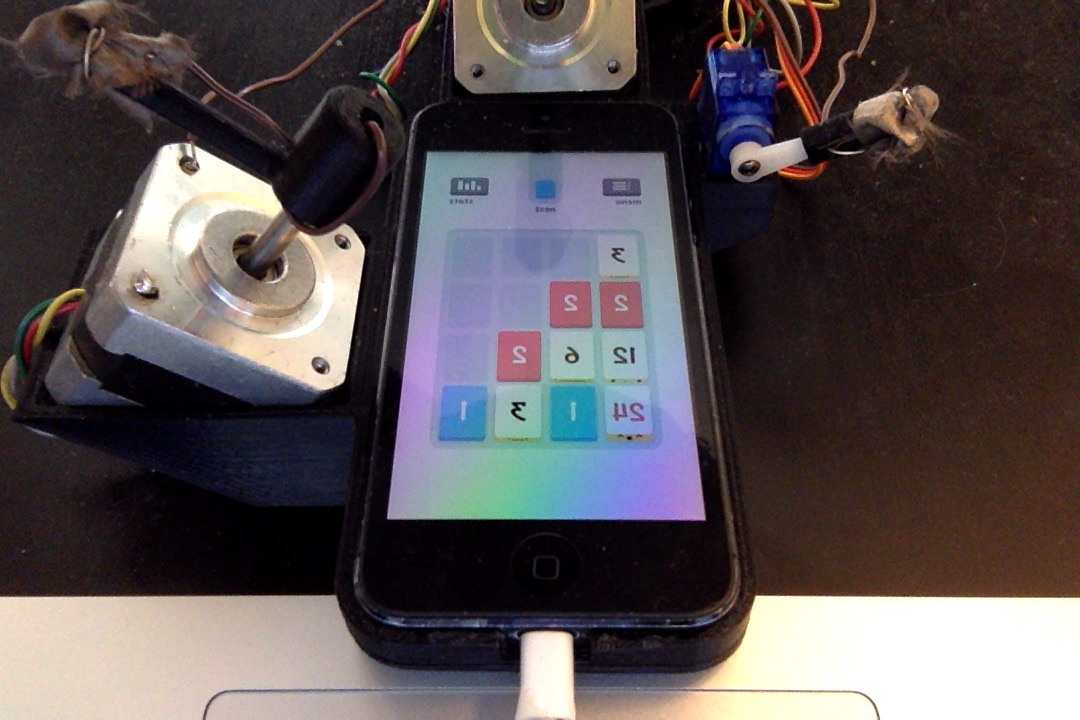
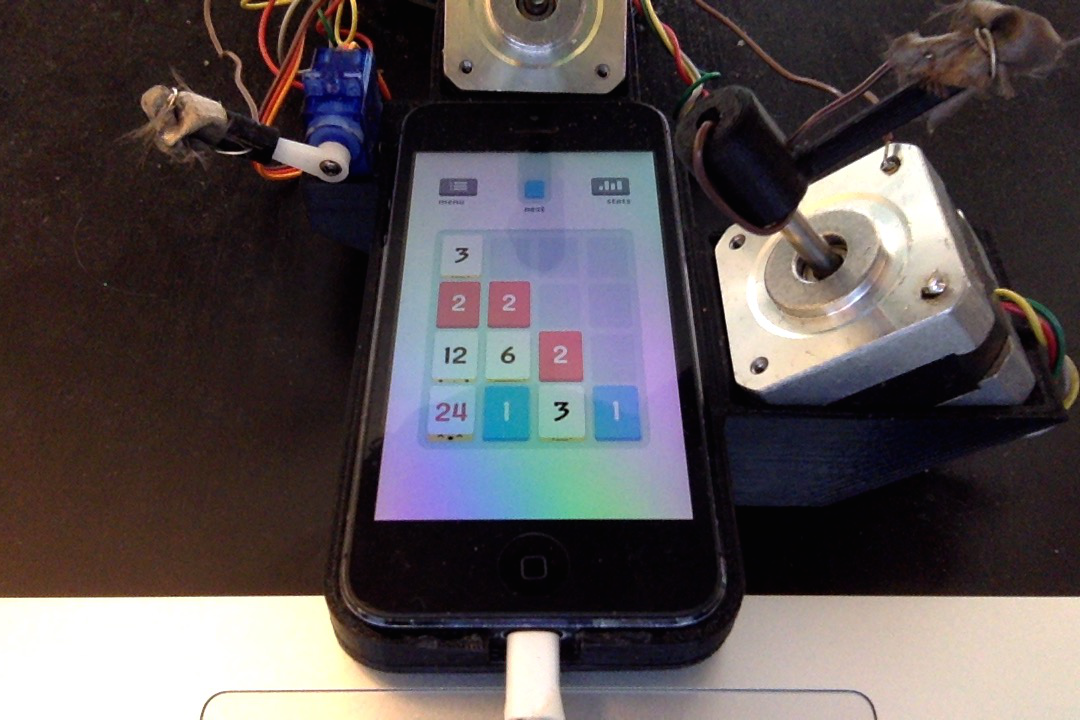
turn the image into a board object, occasionally successfully

diff --git a/ThreesAI/RealThreesBoard.cpp b/ThreesAI/RealThreesBoard.cpp
@@ -106,6 +106,8 @@ const vector<Mat> RealThreesBoard::loadSampleImages() {
     return results;
 }
 
+const array<int, 13> indexToTile = {1,2,3,6,12,24,48,96,192,384,768,1536,3072};
+
 RealThreesBoard::RealThreesBoard(string portName) : watcher(0) , sampleImages(loadSampleImages()) {
     //Get descriptors
     SIFT sifter = SIFT();
@@ -129,7 +131,6 @@ RealThreesBoard::RealThreesBoard(string portName) : watcher(0) , sampleImages(lo
     
     warpPerspective(cameraSample, sampleBoard, getPerspectiveTransform(fromPoints.data(), toPoints), Size(800,800));
     MYSHOW(sampleBoard);
-    waitKey();
     
     for (unsigned char i = 0; i < 4; i++) {
         for (unsigned char j = 0; j < 4; j++) {
@@ -143,6 +144,9 @@ RealThreesBoard::RealThreesBoard(string portName) : watcher(0) , sampleImages(lo
             
             FlannBasedMatcher matcher;
             if (!currentTileDescriptors.empty()) {
+                vector<float> distances;
+                
+                
                 for (int i = 0; i < this->sampleDescriptors.size(); i++) {
                     auto sampleDescriptor = this->sampleDescriptors[i];
                     
@@ -156,16 +160,27 @@ RealThreesBoard::RealThreesBoard(string portName) : watcher(0) , sampleImages(lo
                         return sum + d.distance;
                     })/float(matches.size());
                     
-                    MYLOG(averageDistance);
-                    
-                    waitKey();
+                    distances.push_back(averageDistance);
                 }
+                
+                float min = INFINITY;
+                int index = 0;
+                for (int i = 0; i < distances.size(); i++) {
+                    if (distances[i] < min) {
+                        min = distances[i];
+                        index = i;
+                    }
+                }
+                
+                this->board[j][i] = indexToTile[index];
             } else {
-                MYSHOW(currentTile);
-                waitKey();
+                //This is a blank tile, probably?
+                this->board[j][i] = 0;
             }
         }
     }
+    
+    MYLOG(*this);
     
     //TODO this needs to go back before getting the first image
     this->fd = serialport_init("/dev/tty.usbmodem1411", 9600);
